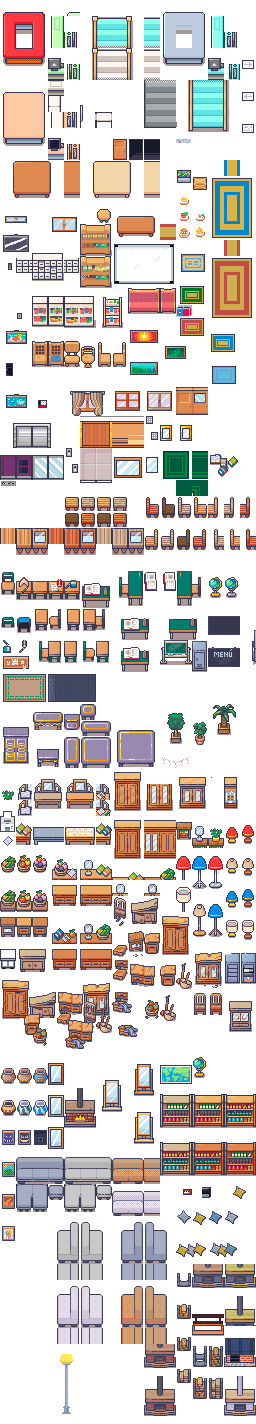
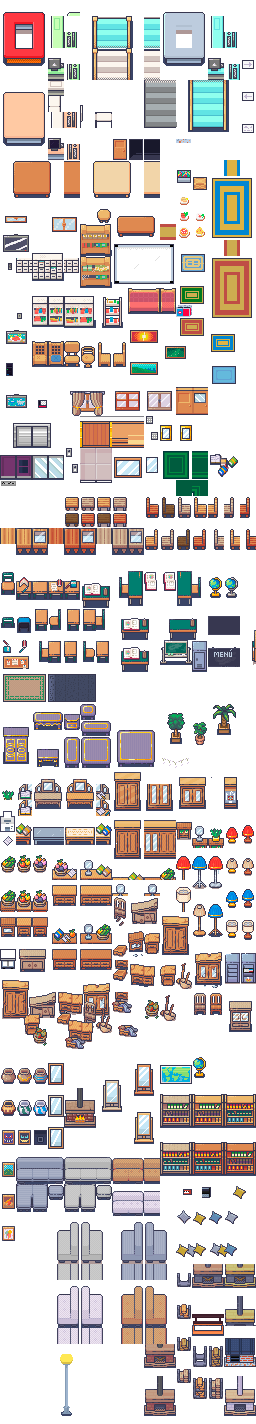
Mejoras visuales FDI

diff --git a/src/scenes/FDI_scenes/FDI_4.js b/src/scenes/FDI_scenes/FDI_4.js
@@ -18,12 +18,13 @@ export default class FDI_4 extends SalaBase {
         const tileset2 = map.addTilesetImage('Room_Builder_free_16x16', 'Muebles');
         const tileset3 = map.addTilesetImage('tileset_nuevo', 'Decorado');
 
-        const layer1 = map.createLayer('suelo', [tileset1, tileset2], 0, 0);
-        const layer2 = map.createLayer('pared', [tileset1, tileset2], 0, 0);
-        const layer5 = map.createLayer('sin colisiones', [tileset1, tileset2], 0, 0);
-        const layer3 = map.createLayer('objetos', [tileset1, tileset2], 0, 0);
-        const layer4 = map.createLayer('objetos2', [tileset1, tileset2], 0, 0);
-        const layer6 = map.createLayer('techo', [tileset1, tileset2], 0, 0);
+        const layer1 = map.createLayer('suelo', [tileset1, tileset2, tileset3], 0, 0);
+        const layer2 = map.createLayer('pared', [tileset1, tileset2, tileset3], 0, 0);
+      
+        const layer3 = map.createLayer('objetos', [tileset1, tileset2, tileset3], 0, 0);
+        const layer4 = map.createLayer('objetos2', [tileset1, tileset2, tileset3], 0, 0);
+          const layer5 = map.createLayer('sin colisiones', [tileset1, tileset2, tileset3], 0, 0);
+        const layer6 = map.createLayer('techo', [tileset1, tileset2, tileset3], 0, 0);
         const layer7 = map.createLayer('decoracion', [tileset1, tileset2, tileset3], 0, 0);
 
         layer2.setCollisionByExclusion([-1], true);

diff --git a/src/game.js b/src/game.js
@@ -71,7 +71,7 @@ let config = {
         default: 'arcade',
         arcade: {
             gravity: { y: 0 },
-            debug: true
+            debug: false
         }
     }
 };
